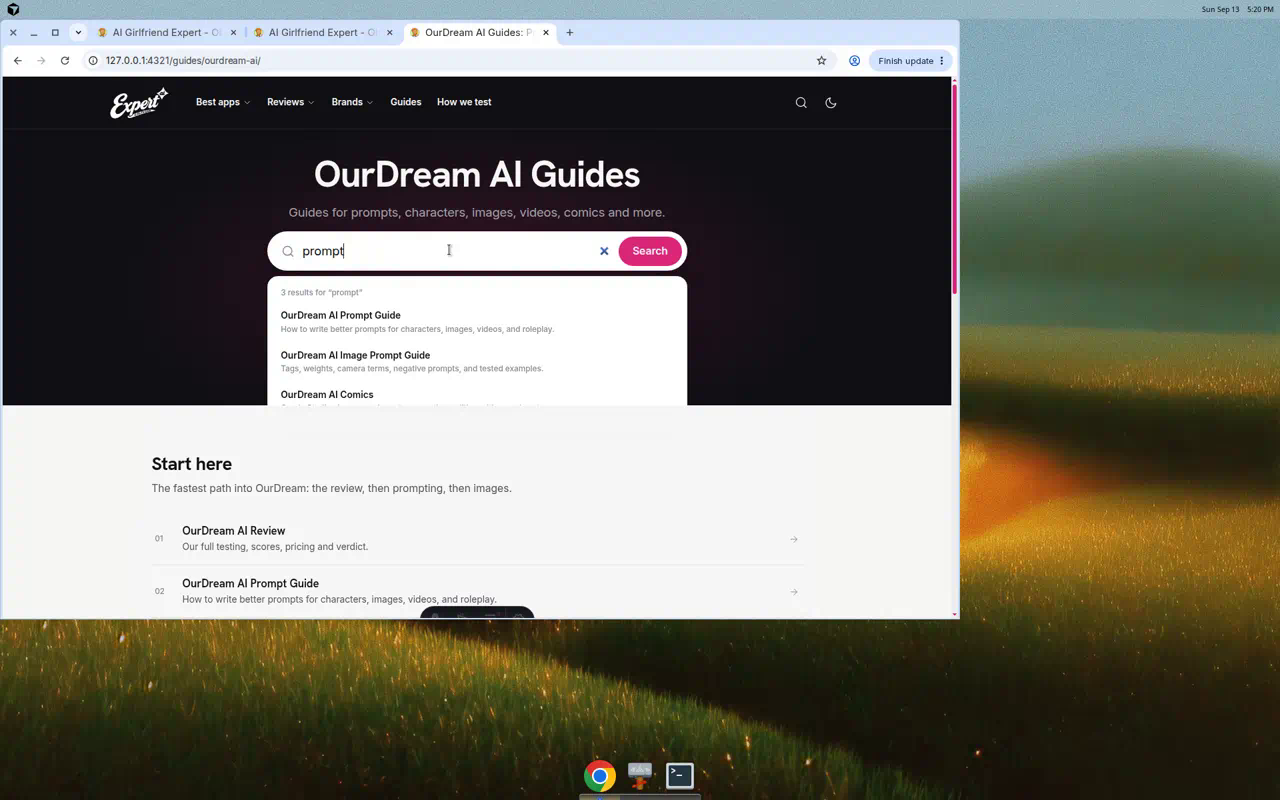
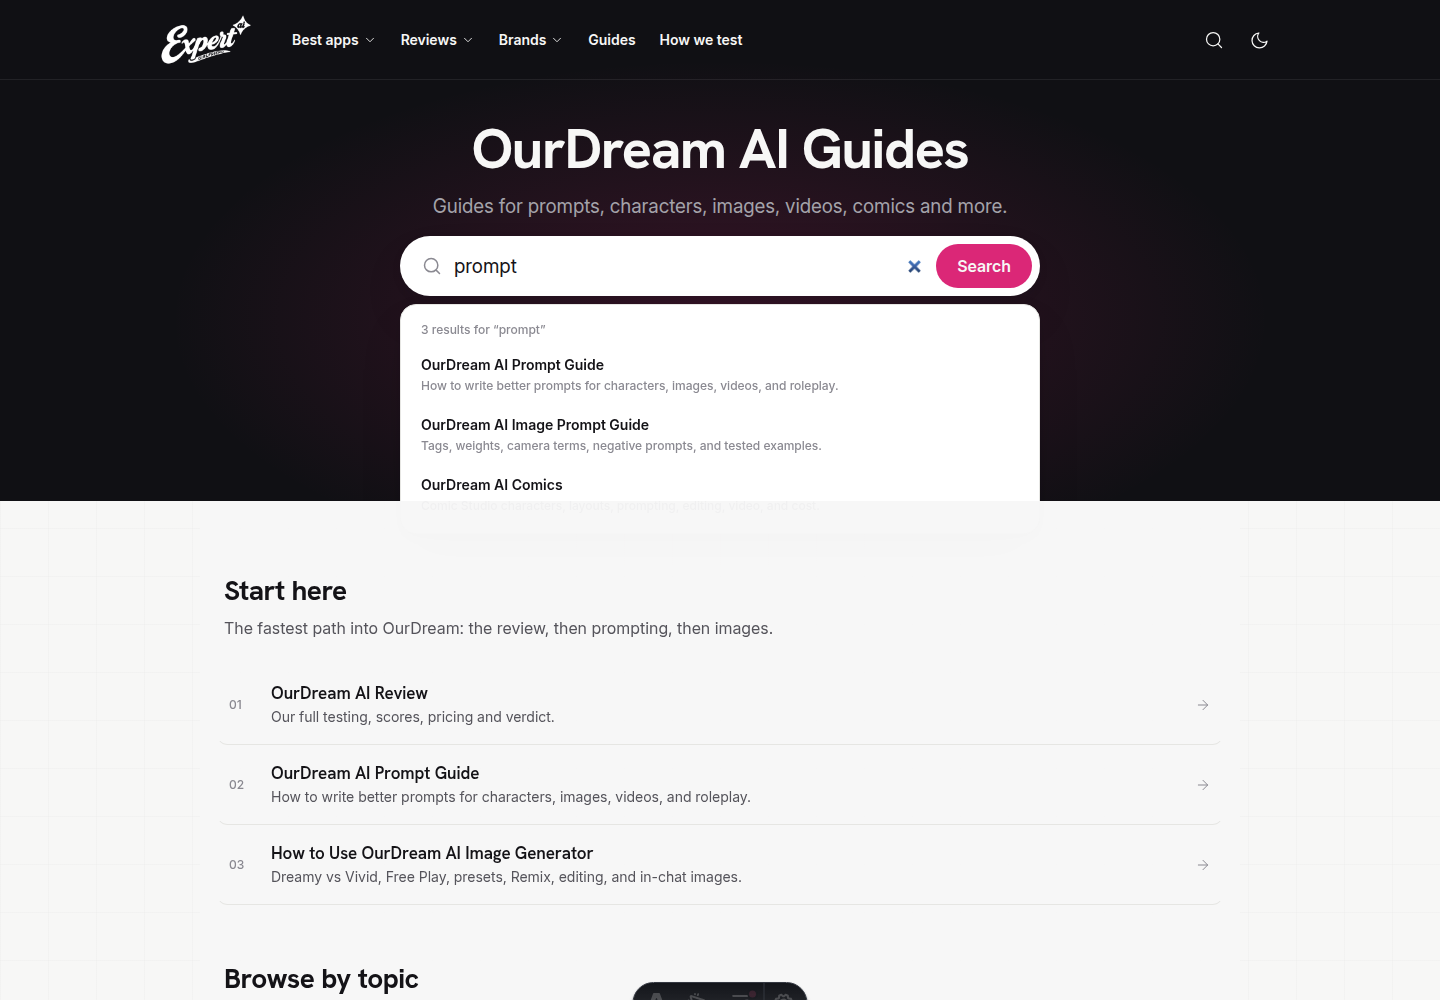
docs: recapture Figma sync screenshots and fix header frontmatter
Replace OS-chrome captures with headless viewport shots, add missing
mobile/hub states, and remove a duplicated Astro frontmatter block in
HomeDesktopHeader so Brands nav compiles from a single script.

diff --git a/docs/figma-sync/FIGMA-SYNC-HANDOFF.md b/docs/figma-sync/FIGMA-SYNC-HANDOFF.md
@@ -424,21 +424,33 @@ Verify Figma matches this current implementation:
 
 ## Screenshot index
 
+Headless Chrome captures of the live `localhost:4321` render (viewport screenshots, no OS chrome). Mobile footer files are **element screenshots** of `.site-footer` so the two-column link groups are fully visible without the fixed bottom app bar covering them.
+
 | File | What |
 | --- | --- |
-| `homepage-desktop-hero.png` | 1440 hero + header (includes Brands) |
-| `homepage-desktop-1440-full.png` | 1440 tall viewport |
+| `homepage-desktop-hero.png` | 1440×1000 hero + header (includes Brands) |
+| `homepage-desktop-1440-full.png` | 1440 full page |
 | `homepage-desktop-rankings.png` | Rankings + proof |
 | `homepage-desktop-methodology.png` | Methodology |
 | `homepage-desktop-score.png` | One number / eight tests |
-| `homepage-desktop-tester-cta.png` | Tester / CTA / footer start |
-| `homepage-desktop-brands-dropdown.png` | Brands menu open |
-| `homepage-desktop-herman-result.png` | Herman flipped (if present) |
+| `homepage-desktop-tester-cta.png` | Tester / CTA |
+| `homepage-desktop-brands-dropdown.png` | Brands menu open (OurDream hub + View all brands) |
+| `homepage-desktop-herman-result.png` | Herman flipped to current #1 |
 | `homepage-mobile-hero.png` | 390 hero |
-| `homepage-mobile-390-full.png` | 390 taller viewport |
-| `homepage-mobile-footer.png` | Mobile site footer |
-| `ourdream-hub-desktop-default-hero.png` | Hub hero + Start here + topics |
-| `ourdream-hub-desktop-search-results.png` | Hub search “prompt” |
+| `homepage-mobile-390-full.png` | 390 full page |
+| `homepage-mobile-rankings.png` | 390 rankings |
+| `homepage-mobile-methodology.png` | 390 methodology |
+| `homepage-mobile-score.png` | 390 AIGE score |
+| `homepage-mobile-tester.png` | 390 tester |
+| `homepage-mobile-footer.png` | Mobile `.site-footer` two-column groups |
+| `ourdream-hub-desktop-default-hero.png` | Hub hero |
+| `ourdream-hub-desktop-1440-full.png` | Hub 1440 full page |
+| `ourdream-hub-desktop-search-results.png` | Hub search “prompt” results |
 | `ourdream-hub-desktop-search-empty.png` | Hub search no-results |
-| `ourdream-hub-mobile-390-full.png` | Hub 390 |
-| `ourdream-hub-mobile-footer.png` | Hub mobile footer |
+| `ourdream-hub-desktop-topic-hover.png` | Browse by topic (first card open/hover treatment) |
+| `ourdream-hub-desktop-footer.png` | Hub desktop footer |
+| `ourdream-hub-mobile-390-full.png` | Hub 390 full page |
+| `ourdream-hub-mobile-default.png` | Hub 390 default viewport |
+| `ourdream-hub-mobile-search.png` | Hub 390 search results |
+| `ourdream-hub-mobile-topics.png` | Hub 390 topic cards |
+| `ourdream-hub-mobile-footer.png` | Hub mobile `.site-footer` |
